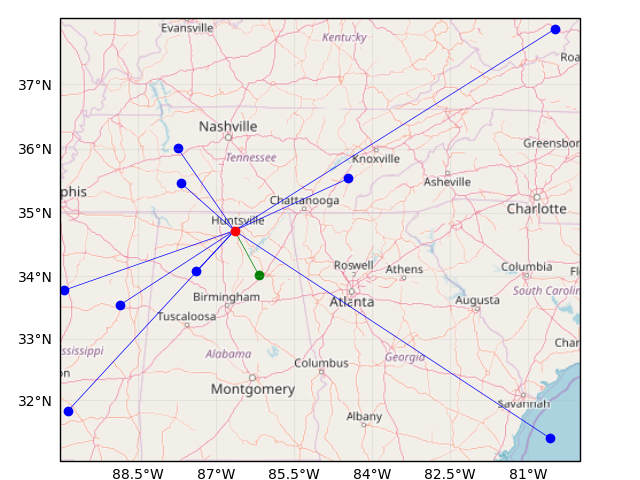
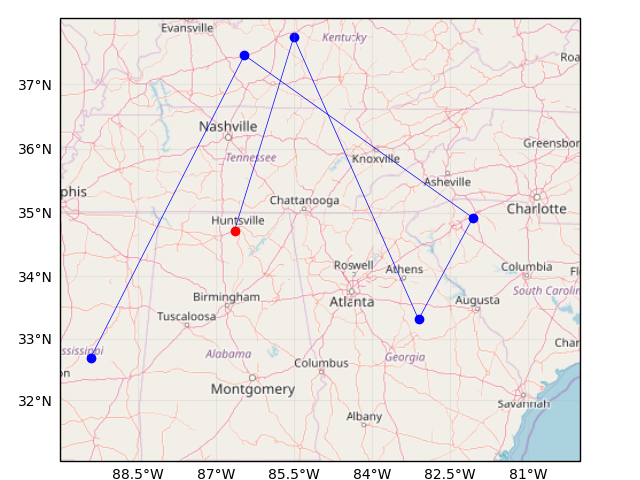
add pathing plot, resolve #18

diff --git a/RAPTOR/src/guidance/Skynet/simulation/mapplot.py b/RAPTOR/src/guidance/Skynet/simulation/mapplot.py
@@ -24,31 +24,46 @@ class MapPlotter():
         gl.xformatter = LONGITUDE_FORMATTER
         gl.yformatter = LATITUDE_FORMATTER
 
-        self.gen = pointgen.PointGenerator()
+    def plot_locations(self, numpoints):
+        gen = pointgen.PointGenerator()
+        gen.generate(numpoints)
 
-    def plot(self, numpoints):
-        self.gen.generate(numpoints)
-
-        plt.scatter(self.gen.points["longs"][0], self.gen.points["lats"][0],  # put our initial location in red
+        plt.scatter(gen.points["longs"][0], gen.points["lats"][0],  # put our initial location in red
                     color='red', zorder=2, transform=ccrs.Geodetic())
 
-        best = int(self.gen.find_best())
-        
+        best = int(gen.find_best())
+
         for i in range(1, numpoints+1):
             if i == best:
-                plt.plot([self.gen.points["longs"][0], self.gen.points["longs"][i]],
-                         [self.gen.points["lats"][0], self.gen.points["lats"][i]],
+                plt.plot([gen.points["longs"][0], gen.points["longs"][i]],
+                         [gen.points["lats"][0], gen.points["lats"][i]],
                          color='green', linewidth=0.5, zorder=1, transform=ccrs.Geodetic())
 
-                plt.scatter(self.gen.points["longs"][i], self.gen.points["lats"][i], 
-                    color='green', zorder=2, transform=ccrs.Geodetic())
+                plt.scatter(gen.points["longs"][i], gen.points["lats"][i],
+                            color='green', zorder=2, transform=ccrs.Geodetic())
             else:
-                plt.plot([self.gen.points["longs"][0], self.gen.points["longs"][i]],
-                         [self.gen.points["lats"][0], self.gen.points["lats"][i]],
+                plt.plot([gen.points["longs"][0], gen.points["longs"][i]],
+                         [gen.points["lats"][0], gen.points["lats"][i]],
                          color='blue', linewidth=0.5, zorder=1, transform=ccrs.Geodetic())  # plot the initial point to a location
-                
-                plt.scatter(self.gen.points["longs"][i], self.gen.points["lats"][i],  # scatter the location seperately
-                    color='blue', zorder=2, transform=ccrs.Geodetic())
+
+                plt.scatter(gen.points["longs"][i], gen.points["lats"][i],  # scatter the location seperately
+                            color='blue', zorder=2, transform=ccrs.Geodetic())
+
+    def plot_path(self, numpoints):
+        gen = pointgen.PointGenerator()
+        gen.generate(numpoints)
+
+        plt.scatter(gen.points["longs"][0], gen.points["lats"][0],  # put our initial location in red
+                    color='red', zorder=2, transform=ccrs.Geodetic())
+
+        for i in range(1, numpoints+1):
+            plt.plot([gen.points["longs"][i-1], gen.points["longs"][i]],
+                     [gen.points["lats"][i-1], gen.points["lats"][i]],
+                     color='blue', linewidth=0.5, zorder=1, transform=ccrs.Geodetic())  # plot path from the previous point to the current
+
+            plt.scatter(gen.points["longs"][i], gen.points["lats"][i],  # scatter the current location seperately
+                        color='blue', zorder=2, transform=ccrs.Geodetic())
+
     def show(self):
         plt.tight_layout()
         plt.savefig('test.png')
@@ -56,5 +71,5 @@ class MapPlotter():
 
 
 mp = MapPlotter()
-mp.plot(10)
+mp.plot_path(10)
 mp.show()
